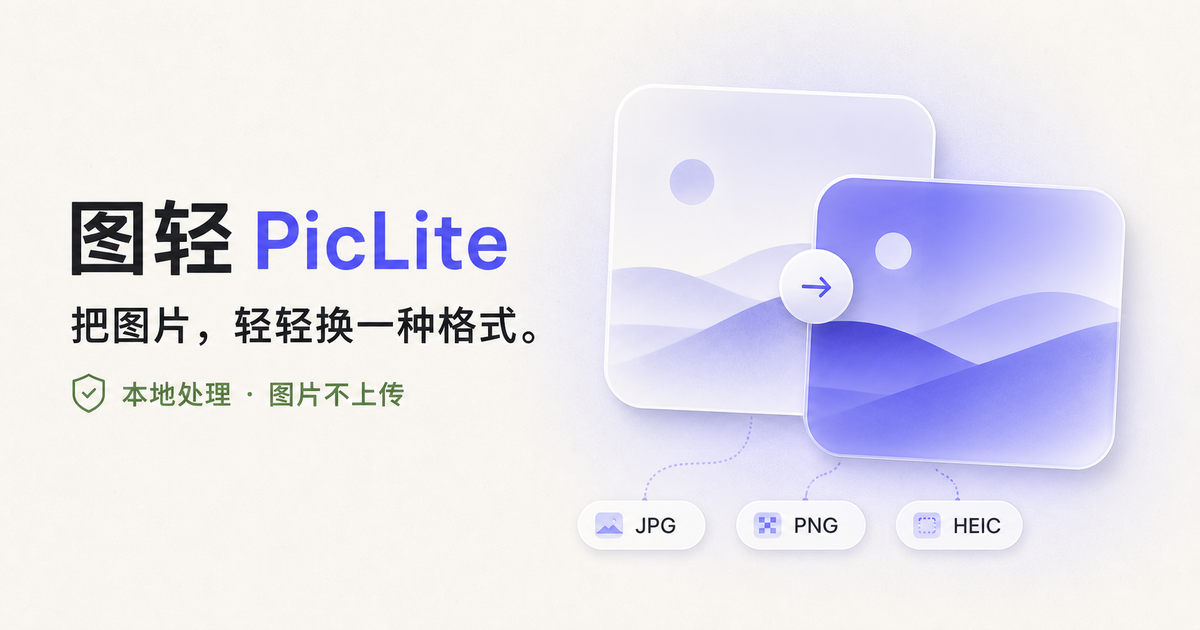
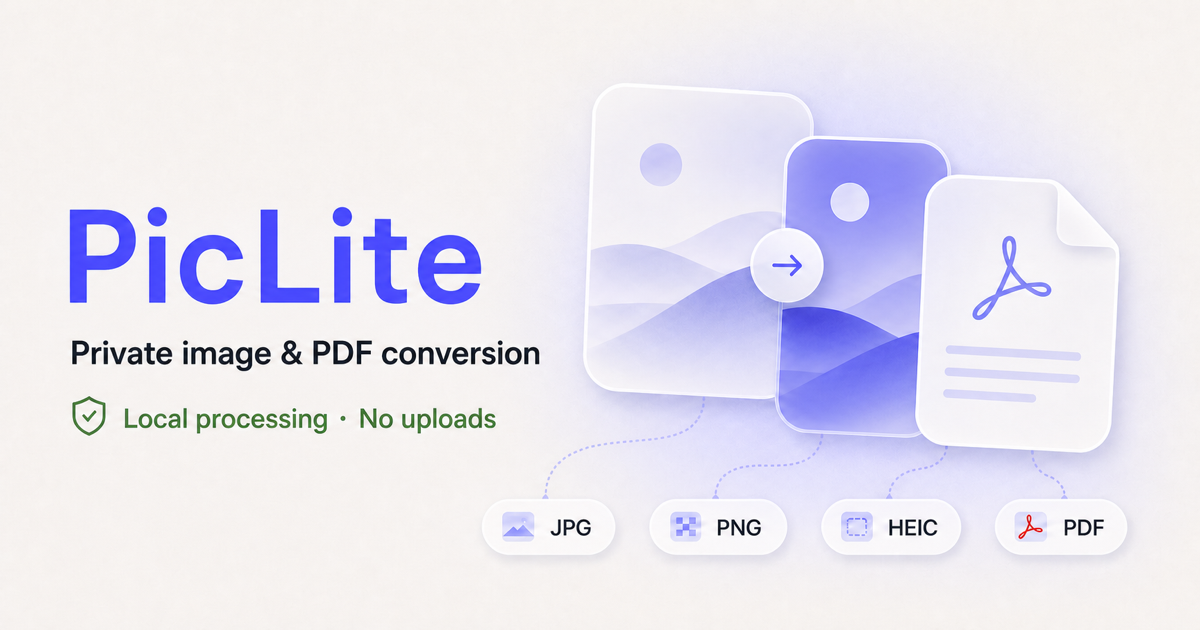
Improve multilingual SEO and unify PicLite branding

diff --git a/app/layout.tsx b/app/layout.tsx
@@ -1,67 +1,60 @@
 import type { Metadata, Viewport } from "next";
-import { headers } from "next/headers";
 import "./globals.css";
+import { languageAlternates, SITE_NAME, SITE_URL, SOCIAL_IMAGE } from "./site";
 
-const title = "图轻 PicLite — Image & PDF Converter";
+const title = "PicLite — Private Image & PDF Converter";
 const description =
   "Convert and compress images and PDF files privately on your device. Supports HEIC, JPG, PNG, WebP and PDF.";
 
-export async function generateMetadata(): Promise<Metadata> {
-  const requestHeaders = await headers();
-  const host =
-    requestHeaders.get("x-forwarded-host") ??
-    requestHeaders.get("host") ??
-    "localhost:3000";
-  const protocol =
-    requestHeaders.get("x-forwarded-proto") ??
-    (host.startsWith("localhost") ? "http" : "https");
-
-  return {
-    metadataBase: new URL(`${protocol}://${host}`),
+export const metadata: Metadata = {
+  metadataBase: new URL(SITE_URL),
+  title,
+  description,
+  applicationName: SITE_NAME,
+  manifest: "/manifest.webmanifest",
+  alternates: {
+    canonical: "/en",
+    languages: languageAlternates,
+  },
+  appleWebApp: {
+    capable: true,
+    statusBarStyle: "default",
+    title: SITE_NAME,
+  },
+  formatDetection: {
+    telephone: false,
+  },
+  icons: {
+    icon: [
+      { url: "/favicon.png", sizes: "64x64", type: "image/png" },
+      { url: "/icon-192.png", sizes: "192x192", type: "image/png" },
+      { url: "/icon-512.png", sizes: "512x512", type: "image/png" },
+    ],
+    apple: [{ url: "/apple-touch-icon.png", sizes: "180x180" }],
+  },
+  openGraph: {
     title,
     description,
-    applicationName: "图轻 PicLite",
-    manifest: "/manifest.webmanifest",
-    appleWebApp: {
-      capable: true,
-      statusBarStyle: "default",
-      title: "图轻",
-    },
-    formatDetection: {
-      telephone: false,
-    },
-    icons: {
-      icon: [
-        { url: "/favicon.png", sizes: "64x64", type: "image/png" },
-        { url: "/icon-192.png", sizes: "192x192", type: "image/png" },
-        { url: "/icon-512.png", sizes: "512x512", type: "image/png" },
-      ],
-      apple: [{ url: "/apple-touch-icon.png", sizes: "180x180" }],
-    },
-    openGraph: {
-      title,
-      description,
-      type: "website",
-      locale: "zh_CN",
-      siteName: "图轻 PicLite",
-      url: "/",
-      images: [
-        {
-          url: "/og-v2.png",
-          width: 1200,
-          height: 630,
-          alt: "图轻 PicLite — Private image and PDF conversion",
-        },
-      ],
-    },
-    twitter: {
-      card: "summary_large_image",
-      title,
-      description,
-      images: ["/og-v2.png"],
-    },
-  };
-}
+    type: "website",
+    locale: "en",
+    siteName: SITE_NAME,
+    url: "/en",
+    images: [
+      {
+        url: SOCIAL_IMAGE,
+        width: 1200,
+        height: 630,
+        alt: "PicLite — Private image and PDF conversion",
+      },
+    ],
+  },
+  twitter: {
+    card: "summary_large_image",
+    title,
+    description,
+    images: [SOCIAL_IMAGE],
+  },
+};
 
 export const viewport: Viewport = {
   width: "device-width",
@@ -80,6 +73,13 @@ const themeScript = `
   } catch (_) {}
 `;
 
+const websiteJsonLd = {
+  "@context": "https://schema.org",
+  "@type": "WebSite",
+  name: SITE_NAME,
+  url: SITE_URL,
+};
+
 export default function RootLayout({
   children,
 }: Readonly<{
@@ -89,6 +89,12 @@ export default function RootLayout({
     <html lang="en" data-theme="auto" suppressHydrationWarning>
       <head>
         <script dangerouslySetInnerHTML={{ __html: themeScript }} />
+        <script
+          type="application/ld+json"
+          dangerouslySetInnerHTML={{
+            __html: JSON.stringify(websiteJsonLd).replace(/</g, "\\u003c"),
+          }}
+        />
       </head>
       <body>{children}</body>
     </html>

diff --git a/app/i18n.ts b/app/i18n.ts
@@ -99,7 +99,7 @@ export const dictionaries: Record<Locale, Messages> = {
     nativeName: "简体中文",
     tag: "zh-CN",
     dir: "ltr",
-    metaTitle: "图轻 PicLite — 图片与 PDF 格式转换",
+    metaTitle: "PicLite — 图片与 PDF 格式转换",
     metaDescription: "在设备本地转换并压缩图片与 PDF。支持 HEIC、JPG、PNG、WebP、PDF 和批量处理。",
     languageLabel: "语言",
     localProcessing: "本地处理",
@@ -159,25 +159,25 @@ export const dictionaries: Record<Locale, Messages> = {
     downloadPdf: "下载合并 PDF",
     footer: "私密、轻巧、始终在本地",
     codecCredit: "HEIC 由 libheif、PDF 由 PDF.js 提供支持",
-    installKicker: "安装图轻",
+    installKicker: "安装 PicLite",
     installTitle: "放到手机桌面，离线也能用",
     installSteps: ["打开浏览器的分享或更多菜单", "选择“添加到主屏幕”或“安装应用”", "以后像普通 App 一样从桌面打开"],
     gotIt: "知道了",
     close: "关闭",
     invalidFiles: "已忽略 {count} 个不支持的文件",
-    installed: "图轻已安装到你的设备",
+    installed: "PicLite 已安装到你的设备",
     pdfLoading: "正在读取 PDF 页面",
     pdfAdded: "已从 PDF 加入 {count} 页",
     pdfError: "无法读取这个 PDF，文件可能已加密或损坏",
     pdfPage: "PDF · 第 {page} 页",
     pdfIncluded: "已加入合并 PDF",
-    pdfFileName: "图轻-合并结果.pdf",
+    pdfFileName: "PicLite-合并结果.pdf",
   },
   "zh-tw": {
     nativeName: "繁體中文",
     tag: "zh-TW",
     dir: "ltr",
-    metaTitle: "圖輕 PicLite — 圖片與 PDF 格式轉換",
+    metaTitle: "PicLite — 圖片與 PDF 格式轉換",
     metaDescription: "在裝置本機轉換並壓縮圖片與 PDF。支援 HEIC、JPG、PNG、WebP、PDF 與批次處理。",
     languageLabel: "語言",
     localProcessing: "本機處理",
@@ -237,19 +237,19 @@ export const dictionaries: Record<Locale, Messages> = {
     downloadPdf: "下載合併 PDF",
     footer: "私密、輕巧、始終在本機",
     codecCredit: "HEIC 由 libheif、PDF 由 PDF.js 提供支援",
-    installKicker: "安裝圖輕",
+    installKicker: "安裝 PicLite",
     installTitle: "放到手機主畫面，離線也能用",
     installSteps: ["開啟瀏覽器的分享或更多選單", "選擇「加入主畫面」或「安裝應用程式」", "之後就能像一般 App 一樣開啟"],
     gotIt: "知道了",
     close: "關閉",
     invalidFiles: "已略過 {count} 個不支援的檔案",
-    installed: "圖輕已安裝到你的裝置",
+    installed: "PicLite 已安裝到你的裝置",
     pdfLoading: "正在讀取 PDF 頁面",
     pdfAdded: "已從 PDF 加入 {count} 頁",
     pdfError: "無法讀取此 PDF，檔案可能已加密或損毀",
     pdfPage: "PDF · 第 {page} 頁",
     pdfIncluded: "已加入合併 PDF",
-    pdfFileName: "圖輕-合併結果.pdf",
+    pdfFileName: "PicLite-合併結果.pdf",
   },
   en: {
     nativeName: "English",

diff --git a/app/[locale]/page.tsx b/app/[locale]/page.tsx
@@ -1,8 +1,13 @@
 import type { Metadata } from "next";
-import { headers } from "next/headers";
 import { notFound } from "next/navigation";
 import ImageConverter from "../ImageConverter";
 import { dictionaries, isLocale, LOCALES } from "../i18n";
+import {
+  languageAlternates,
+  SITE_NAME,
+  SITE_URL,
+  SOCIAL_IMAGE,
+} from "../site";
 
 type LocalePageProps = {
   params: Promise<{ locale: string }>;
@@ -18,33 +23,39 @@ export async function generateMetadata({
   const { locale } = await params;
   if (!isLocale(locale)) return {};
   const messages = dictionaries[locale];
-  const requestHeaders = await headers();
-  const host =
-    requestHeaders.get("x-forwarded-host") ??
-    requestHeaders.get("host") ??
-    "localhost:3000";
-  const protocol =
-    requestHeaders.get("x-forwarded-proto") ??
-    (host.startsWith("localhost") ? "http" : "https");
 
   return {
-    metadataBase: new URL(`${protocol}://${host}`),
+    metadataBase: new URL(SITE_URL),
     title: messages.metaTitle,
     description: messages.metaDescription,
     alternates: {
       canonical: `/${locale}`,
-      languages: Object.fromEntries(LOCALES.map((code) => [dictionaries[code].tag, `/${code}`])),
+      languages: languageAlternates,
+    },
+    robots: {
+      index: true,
+      follow: true,
+      googleBot: {
+        index: true,
+        follow: true,
+        "max-image-preview": "large",
+        "max-snippet": -1,
+        "max-video-preview": -1,
+      },
     },
     openGraph: {
       title: messages.metaTitle,
       description: messages.metaDescription,
       type: "website",
       locale: messages.tag.replace("-", "_"),
-      siteName: "图轻 PicLite",
+      alternateLocale: LOCALES
+        .filter((code) => code !== locale)
+        .map((code) => dictionaries[code].tag.replace("-", "_")),
+      siteName: SITE_NAME,
       url: `/${locale}`,
       images: [
         {
-          url: "/og-v2.png",
+          url: SOCIAL_IMAGE,
           width: 1200,
           height: 630,
           alt: messages.metaTitle,
@@ -55,7 +66,7 @@ export async function generateMetadata({
       card: "summary_large_image",
       title: messages.metaTitle,
       description: messages.metaDescription,
-      images: ["/og-v2.png"],
+      images: [SOCIAL_IMAGE],
     },
   };
 }

diff --git a/app/ImageConverter.tsx b/app/ImageConverter.tsx
@@ -683,7 +683,7 @@ export default function ImageConverter({
       <header className="site-header">
         <a className="brand" href={`/${locale}`} aria-label="PicLite">
           <span className="brand-mark" aria-hidden="true"><span /><span /></span>
-          <span className="brand-copy"><strong>图轻</strong><small>PicLite</small></span>
+          <span className="brand-copy"><strong>PicLite</strong></span>
         </a>
 
         <div className="header-actions">
@@ -1000,7 +1000,7 @@ export default function ImageConverter({
       )}
 
       <footer>
-        <p>图轻 PicLite <span>·</span> {m.footer}</p>
+        <p>PicLite <span>·</span> {m.footer}</p>
         <p className="codec-credit">{m.codecCredit}</p>
       </footer>
 

diff --git a/app/globals.css b/app/globals.css
@@ -194,22 +194,13 @@ select:focus-visible {
 
 .brand-copy {
   display: flex;
-  align-items: baseline;
-  gap: 7px;
+  align-items: center;
 }
 
 .brand-copy strong {
-  font-size: 19px;
-  font-weight: 680;
-  letter-spacing: 0.02em;
-}
-
-.brand-copy small {
-  color: var(--ink-faint);
-  font-size: 11px;
-  font-weight: 650;
-  letter-spacing: 0.09em;
-  text-transform: uppercase;
+  font-size: 20px;
+  font-weight: 720;
+  letter-spacing: -0.02em;
 }
 
 .header-actions {
@@ -1565,7 +1556,6 @@ footer span {
     font-size: 17px;
   }
 
-  .brand-copy small,
   .local-pill,
   .install-button > span:last-child {
     display: none;

diff --git a/app/sitemap.ts b/app/sitemap.ts
@@ -1,0 +1,15 @@
+import type { MetadataRoute } from "next";
+import { LOCALES } from "./i18n";
+import { languageAlternates, SITE_URL } from "./site";
+
+export default function sitemap(): MetadataRoute.Sitemap {
+  return LOCALES.map((locale) => ({
+    url: `${SITE_URL}/${locale}`,
+    changeFrequency: "monthly",
+    priority: locale === "en" ? 1 : 0.9,
+    alternates: {
+      languages: languageAlternates,
+    },
+    images: [`${SITE_URL}/og.png`],
+  }));
+}

diff --git a/app/site.ts b/app/site.ts
@@ -1,0 +1,16 @@
+import { dictionaries, LOCALES } from "./i18n";
+
+export const SITE_NAME = "PicLite";
+export const SITE_URL = "https://piclite.net";
+export const SOCIAL_IMAGE = "/og.png";
+
+export const languageAlternates = {
+  ...Object.fromEntries(
+    LOCALES.map((locale) => [
+      dictionaries[locale].tag,
+      `${SITE_URL}/${locale}`,
+    ]),
+  ),
+  "x-default": `${SITE_URL}/en`,
+};
+

diff --git a/app/robots.ts b/app/robots.ts
@@ -1,0 +1,13 @@
+import type { MetadataRoute } from "next";
+import { SITE_URL } from "./site";
+
+export default function robots(): MetadataRoute.Robots {
+  return {
+    rules: {
+      userAgent: "*",
+      allow: "/",
+    },
+    sitemap: `${SITE_URL}/sitemap.xml`,
+  };
+}
+

diff --git a/app/page.tsx b/app/page.tsx
@@ -14,7 +14,7 @@ export default function LanguageRedirect() {
         <span />
         <span />
       </span>
-      <strong>图轻 PicLite</strong>
+      <strong>PicLite</strong>
       <p>Choosing your language…</p>
     </main>
   );

diff --git a/public/sw.js b/public/sw.js
@@ -1,4 +1,4 @@
-const CACHE_NAME = "piclite-shell-v2";
+const CACHE_NAME = "piclite-shell-v3";
 const CORE_ASSETS = [
   "/",
   "/manifest.webmanifest",
